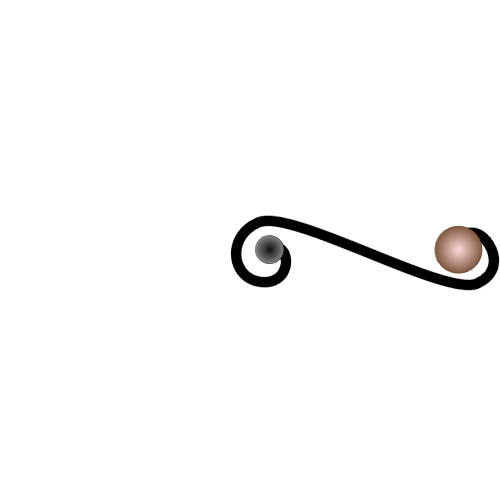
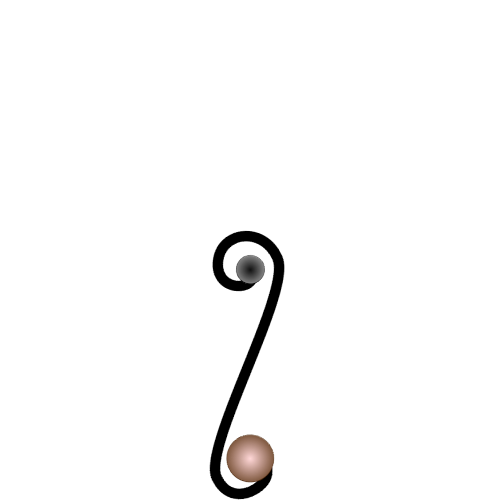
Fixed the position of "the crank" but its still not perfekt because the image dont get scaled correctly :(

Changed region(s): [[0.42, 0.42, 1.0, 1.0]]

diff --git a/lib/the_crank.dart b/lib/the_crank.dart
@@ -3,6 +3,7 @@ import 'dart:math';
 import 'package:flutter/cupertino.dart';
 import 'package:flutter/material.dart';
 import 'package:just_audio/just_audio.dart';
+import 'package:orgel/globals.dart';
 
 class TheCrank extends StatefulWidget {
   final GlobalKey donationButtonKey;
@@ -25,15 +26,24 @@ class _CrankState extends State<TheCrank> {
   _CrankState(this.donationButtonKey);
 
   Widget build(BuildContext context) {
-    return GestureDetector(
-        onPanUpdate: _onPanUpdateHandler,
-        onPanEnd: _onPanEndHandler,
-
-        child: Transform(
-            transform: new Matrix4.rotationZ(angle),
-            alignment: FractionalOffset.center,
-            child: Image.asset('assets/images/kurbel_margin.png')
-        )
+    double scale =MediaQuery.of(context).size.width/orgelSize.width;
+    if (scale >1)
+      scale=1.0;
+    Offset moveTo = crankPoint*scale-(crankSize/scale).center(Offset.zero);
+    return Transform.translate(
+        //TODO: die Berechnung des Mittelpunktes anha der aktuellen Scale einbeziehen
+        offset: moveTo,
+      child: GestureDetector(
+                onPanUpdate: _onPanUpdateHandler,
+                onPanEnd: _onPanEndHandler,
+                child: Transform(
+                    transform: new Matrix4.rotationZ(angle)..scale(scale),
+                  //transform: new Matrix4.identity()..rotateZ(angle),
+                    alignment: FractionalOffset.center,
+                    child: Image.asset(
+                        'assets/images/kurbel_margin.png')
+                )
+      )
     );
   }
 

diff --git a/lib/donation_button.dart b/lib/donation_button.dart
@@ -11,7 +11,7 @@ class DonationButton extends StatefulWidget {
 
 class DonationButtonState extends State<DonationButton>
     with SingleTickerProviderStateMixin {
-  double money = 200.0;
+  double money = 0.0;
   int oldRot = 0;
   final String _url =
       'https://www.heilsarmee.de/chemnitzkassberg/spenden-ssl.html#custom1=273&betrag=';
@@ -58,16 +58,16 @@ class DonationButtonState extends State<DonationButton>
         money += 50;
       else if (rng.nextInt(500001) / 500000 == 1)
         money += 20;
-      else if (rng.nextInt(5001) / 5000 == 1)
+      else if (rng.nextInt(50001) / 50000 == 1)
         money += 10;
-      else if (rng.nextInt(1001) / 1000 == 1)
+      else if (rng.nextInt(10001) / 10000 == 1)
         money += 5;
       else {
-        int euros = (rng.nextInt(1001) / 1000).toInt();
+        int euros = (rng.nextInt(20001) / 10000).toInt();
         if (euros > 0)
           money += euros;
         else
-          money += dp(rng.nextInt(1000) / 100, 2);
+          money += dp(rng.nextInt(10000) / 1000, 2);
       }
       money = dp(money, 2);
     });

diff --git a/lib/main.dart b/lib/main.dart
@@ -87,6 +87,8 @@ class MyHomePage extends StatelessWidget {
                       Image.asset(
                         'assets/images/drehorgel.png'
                       ),
+
+                ),
                       TheCrank(donationButtonKey: dBKey,),
                     ],
                   ),

diff --git a/lib/globals.dart b/lib/globals.dart
@@ -1,5 +1,5 @@
 import 'package:flutter/cupertino.dart';
 
 Size orgelSize  =  Size(559,794);
-Offset crankPoint = Offset(550, 100);
+Offset crankPoint = Offset(400, 100);
 Size crankSize = Size(500,500);
